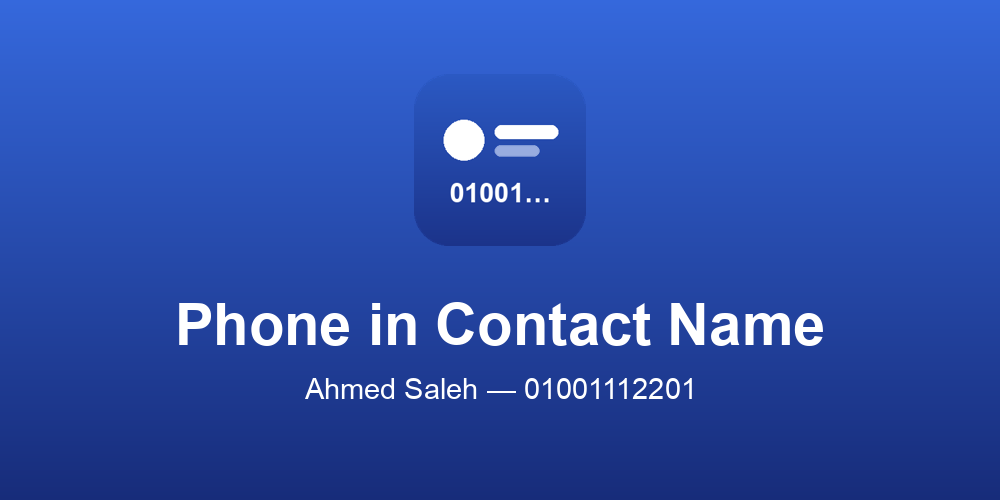
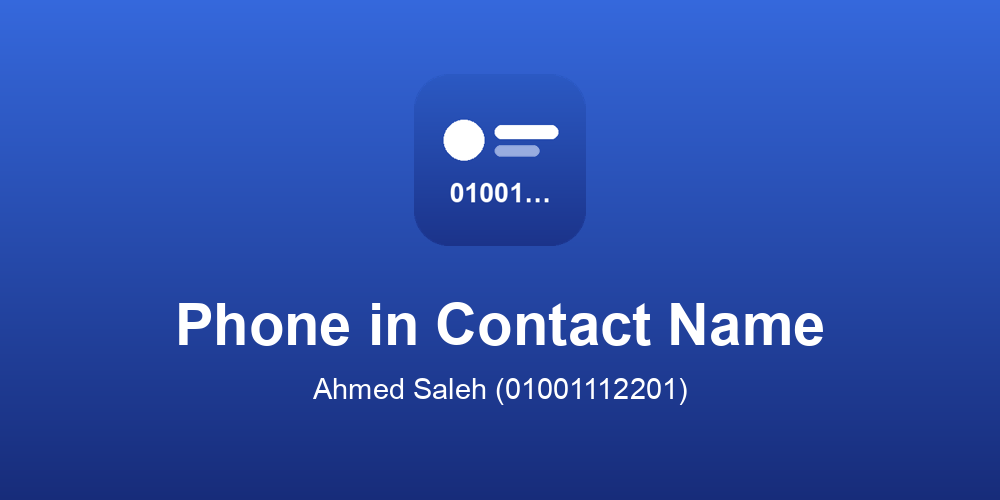
Use plain ASCII in code, HTML entities in descriptions
Em dashes and curly quotes render as mojibake ('Ahmed Saleh a 01001112201')
anywhere the text is read as latin-1 rather than UTF-8, which includes the
display name shown throughout the UI and on printed documents.

Code and manifests now use ASCII; description pages use HTML entities,
which no charset guess can mangle.

The display name also drops the '\t --value--' dropdown markup copied from
core: those literal dashes leak into every context that is not an
autocomplete, so the format is now simply 'Name (01001234567)'.

Changed region(s): [[0.31, 0.75, 0.713, 0.81]]

diff --git a/ai_custom_endpoint/static/description/index.html b/ai_custom_endpoint/static/description/index.html
@@ -5,7 +5,7 @@
         <div class="oe_span12">
             <p class="oe_mt32 text-center" style="font-size:16px;">
                 Odoo's AI module has its LLM endpoints hardcoded, so it can only ever talk to
-                OpenAI or Google. This module reads them from settings instead — which is all it
+                OpenAI or Google. This module reads them from settings instead &mdash; which is all it
                 takes to point the entire AI stack at a gateway you control.
             </p>
         </div>
@@ -17,12 +17,12 @@
         <h2 class="oe_slogan">Point Odoo anywhere</h2>
         <div class="oe_span12">
             <p class="text-center" style="font-size:15px;">
-                LiteLLM &nbsp;·&nbsp; vLLM &nbsp;·&nbsp; OpenRouter &nbsp;·&nbsp; Azure OpenAI
-                &nbsp;·&nbsp; a self-hosted proxy &nbsp;·&nbsp; a private mirror
+                LiteLLM &nbsp;&middot;&nbsp; vLLM &nbsp;&middot;&nbsp; OpenRouter &nbsp;&middot;&nbsp; Azure OpenAI
+                &nbsp;&middot;&nbsp; a self-hosted proxy &nbsp;&middot;&nbsp; a private mirror
             </p>
             <p class="text-center" style="font-size:15px;">
                 Anything that speaks the OpenAI protocol. Set the base URL under
-                <b>Settings → AI → Providers</b> and Odoo's AI agents, prompts and RAG sources
+                <b>Settings &rarr; AI &rarr; Providers</b> and Odoo's AI agents, prompts and RAG sources
                 go to it instead of api.openai.com.
             </p>
         </div>
@@ -36,7 +36,7 @@
         <div class="oe_span6">
             <h3 style="color:#6D28D9;">Your own models in the dropdown</h3>
             <p>
-                Add any models your gateway routes — Claude, Llama, Mistral, a fine-tune — and
+                Add any models your gateway routes &mdash; Claude, Llama, Mistral, a fine-tune &mdash; and
                 they appear in the AI agent's model list alongside Odoo's built-in ones. The
                 list can be fetched from the gateway itself rather than typed by hand.
             </p>
@@ -78,14 +78,14 @@
         <div class="oe_span12">
             <p class="text-center" style="font-size:15px;">
                 Odoo drives chat through the OpenAI <b>Responses</b> API
-                (<code>POST /responses</code>) — <i>not</i> <code>/chat/completions</code> — and
+                (<code>POST /responses</code>) &mdash; <i>not</i> <code>/chat/completions</code> &mdash; and
                 RAG embeddings through <code>POST /embeddings</code>. A gateway must serve those
                 exact routes. Many OpenAI-compatible proxies implement only
                 <code>/chat/completions</code>; those will not work until they add
                 <code>/responses</code>.
             </p>
             <p class="text-center" style="font-size:15px;">
-                Worth checking before you install — it is the one thing that decides whether a
+                Worth checking before you install &mdash; it is the one thing that decides whether a
                 given gateway is usable.
             </p>
         </div>

diff --git a/partner_phone_display_name/static/description/index.html b/partner_phone_display_name/static/description/index.html
@@ -4,13 +4,13 @@
         <h3 class="oe_slogan" style="color:#66708f;">Tell two contacts with the same name apart, without opening either one</h3>
         <div class="oe_span12">
             <p class="oe_mt32 text-center" style="font-size:16px;">
-                Three contacts called “Ahmed” in a dropdown look identical. This module puts the
+                Three contacts called &ldquo;Ahmed&rdquo; in a dropdown look identical. This module puts the
                 phone number next to the name, so the right one is obvious.
             </p>
             <p class="text-center" style="font-size:20px; margin-top:24px;">
                 <span style="color:#999;">Ahmed Saleh</span>
-                &nbsp;&nbsp;→&nbsp;&nbsp;
-                <b>Ahmed Saleh — 01001112201</b>
+                &nbsp;&nbsp;&rarr;&nbsp;&nbsp;
+                <b>Ahmed Saleh (01001112201)</b>
             </p>
         </div>
     </div>
@@ -23,7 +23,7 @@
         <div class="oe_span6">
             <h3 style="color:#2B59C3;">Everywhere a contact is shown</h3>
             <p>
-                Contact selectors, list views, kanban cards, and the “Customer” field on every
+                Contact selectors, list views, kanban cards, and the &ldquo;Customer&rdquo; field on every
                 document. Wherever Odoo prints a contact's name, the number comes with it.
             </p>
         </div>
@@ -32,7 +32,7 @@
             <h3 style="color:#2B59C3;">Styled like Odoo's own</h3>
             <p>
                 In dropdowns the number is rendered the way Odoo renders a contact's email or
-                VAT — as secondary text beside the name, not jammed into it.
+                VAT &mdash; as secondary text beside the name, not jammed into it.
             </p>
         </div>
     </div>
@@ -62,7 +62,7 @@
         <div class="oe_span12">
             <p class="text-center" style="font-size:15px;">
                 This changes <code>display_name</code>, which is what Odoo prints for a contact
-                <b>everywhere</b> — including quotations, invoices, delivery notes and the
+                <b>everywhere</b> &mdash; including quotations, invoices, delivery notes and the
                 recipient name on outgoing email. That is the point of the module, but it does
                 mean customer phone numbers will appear on documents you send out.
             </p>
@@ -79,7 +79,7 @@
         <h2 class="oe_slogan">Works well with</h2>
         <div class="oe_span12">
             <p class="text-center" style="font-size:15px;">
-                <b>Partner Phone (Egypt)</b> — stores every Egyptian mobile in one canonical
+                <b>Partner Phone (Egypt)</b> &mdash; stores every Egyptian mobile in one canonical
                 form, keeps it unique, and finds a contact by number typed any way. Independent
                 of this module; install either or both.
             </p>

diff --git a/partner_phone_eg/static/description/index.html b/partner_phone_eg/static/description/index.html
@@ -1,11 +1,11 @@
 <section class="oe_container">
     <div class="oe_row oe_spaced">
         <h2 class="oe_slogan" style="color:#0F766E;">Partner Phone (Egypt)</h2>
-        <h3 class="oe_slogan" style="color:#5f7d7a;">One canonical number per contact — no duplicates, found however it is typed</h3>
+        <h3 class="oe_slogan" style="color:#5f7d7a;">One canonical number per contact &mdash; no duplicates, found however it is typed</h3>
         <div class="oe_span12">
             <p class="oe_mt32 text-center" style="font-size:16px;">
                 The same customer gets entered twice as <code>+20 100 123 4567</code> and
-                <code>01001234567</code>, and nothing stops it — because to Odoo those are two
+                <code>01001234567</code>, and nothing stops it &mdash; because to Odoo those are two
                 different strings. This module stores every Egyptian mobile in one canonical
                 form and builds duplicate prevention and search on top of it.
             </p>
@@ -37,7 +37,7 @@
             <h3 style="color:#0F766E;">Duplicates are refused</h3>
             <p>
                 Saving a contact whose number an active contact already holds fails with a
-                message naming who has it — not a database error. The guarantee is a partial
+                message naming who has it &mdash; not a database error. The guarantee is a partial
                 unique index in PostgreSQL, so two people saving the same number at the same
                 moment cannot both get through.
             </p>
@@ -58,7 +58,7 @@
             <h3 style="color:#0F766E;">Nothing else is touched</h3>
             <p>
                 Landlines, foreign numbers and blank fields are left exactly as entered and are
-                not covered by the uniqueness rule — only real Egyptian mobiles
+                not covered by the uniqueness rule &mdash; only real Egyptian mobiles
                 (<code>010</code>, <code>011</code>, <code>012</code>, <code>015</code>) are.
                 Archived contacts release their number for reuse.
             </p>
@@ -97,7 +97,7 @@
         <h2 class="oe_slogan">Works well with</h2>
         <div class="oe_span12">
             <p class="text-center" style="font-size:15px;">
-                <b>Phone in Contact Name</b> — shows the number next to the contact's
+                <b>Phone in Contact Name</b> &mdash; shows the number next to the contact's
                 name, so two similarly named contacts are told apart at a glance. Independent;
                 install either or both.
             </p>

diff --git a/ai_custom_endpoint/__manifest__.py b/ai_custom_endpoint/__manifest__.py
@@ -11,7 +11,7 @@ AI Custom Endpoint
 Odoo hardcodes the LLM endpoints (``utils/llm_api_service.py``), so the AI
 module can only ever talk to OpenAI or Google. This module reads them from
 system parameters instead, which is enough to run the whole AI stack against
-any OpenAI-protocol gateway — a self-hosted proxy, LiteLLM, vLLM, OpenRouter,
+any OpenAI-protocol gateway - a self-hosted proxy, LiteLLM, vLLM, OpenRouter,
 Azure OpenAI, or a private mirror.
 
 Configured under **Settings > AI > Providers**, or through the underlying
@@ -21,8 +21,8 @@ system parameters (all optional, nothing changes until one is set):
     Replaces ``https://api.openai.com/v1``.
 
 ``ai.google_base_url``
-    Replaces Gemini's OpenAI-compatible URL. Not shown in Settings — a gateway
-    normally fronts every model through the endpoint above — so it is set from
+    Replaces Gemini's OpenAI-compatible URL. Not shown in Settings - a gateway
+    normally fronts every model through the endpoint above - so it is set from
     System Parameters when Gemini is proxied separately.
 
 ``ai.custom_llm_models``
@@ -30,7 +30,7 @@ system parameters (all optional, nothing changes until one is set):
     dropdown, e.g. ``claude-opus-5:Claude Opus 5, llama-3.3-70b:Llama 3.3``.
     They are routed as OpenAI-protocol requests to ``ai.openai_base_url``.
 
-The API key is Odoo's own ``ai.openai_key`` parameter — set it to the
+The API key is Odoo's own ``ai.openai_key`` parameter - set it to the
 gateway's key.
 
 Note that Odoo drives chat through the OpenAI **Responses** API

diff --git a/partner_phone_display_name/models/res_partner.py b/partner_phone_display_name/models/res_partner.py
@@ -8,16 +8,16 @@ class ResPartner(models.Model):
     def _compute_display_name(self):
         """Append the phone to the contact's name.
 
+        Plain ASCII and the same format everywhere. An en/em dash renders as
+        mojibake anywhere the value is read as latin-1, and core's dropdown
+        markup ("\t --value--") leaks its literal dashes into every other
+        place a contact is shown, so neither is used.
+
         Note this is display_name, so the number also appears wherever the
-        contact is printed — quotations, invoices, email recipients — not
+        contact is printed - quotations, invoices, email recipients - not
         only in contact selectors.
         """
         super()._compute_display_name()
         for partner in self:
-            if not partner.phone:
-                continue
-            if partner.env.context.get('formatted_display_name'):
-                # Matches how core renders extra info in dropdowns.
-                partner.display_name = f"{partner.display_name} \t --{partner.phone}--"
-            else:
-                partner.display_name = f"{partner.display_name} — {partner.phone}"
+            if partner.phone:
+                partner.display_name = f"{partner.display_name} ({partner.phone})"

diff --git a/ai_custom_endpoint/models/ai_agent.py b/ai_custom_endpoint/models/ai_agent.py
@@ -31,7 +31,7 @@ class AiAgent(models.Model):
         """Parse ``ai.custom_llm_models``: ``code:Label, code:Label``.
 
         The label is optional; the code doubles as its own label. Entries are
-        not validated against the gateway — a typo surfaces as an API error on
+        not validated against the gateway - a typo surfaces as an API error on
         first use, which is a clearer signal than a silently missing option.
         """
         raw = self.env['ir.config_parameter'].sudo().get_param(CUSTOM_MODELS_PARAM) or ''
@@ -58,8 +58,8 @@ class AiAgent(models.Model):
         try:
             return super()._get_provider()
         except UserError:
-            # The model list can shrink — a different endpoint, or one that
-            # retired a model — which stock Odoo never has to handle. Its
+            # The model list can shrink - a different endpoint, or one that
+            # retired a model - which stock Odoo never has to handle. Its
             # write() resolves the *old* value before writing the new one
             # (ai/models/ai_agent.py:337), so raising here would make an
             # agent on a dropped model impossible to correct from the UI.

diff --git a/ai_custom_endpoint/models/res_config_settings.py b/ai_custom_endpoint/models/res_config_settings.py
@@ -16,7 +16,7 @@ class ResConfigSettings(models.TransientModel):
     _inherit = 'res.config.settings'
 
     # config_parameter fields read and write ir.config_parameter directly, so
-    # these are the same settings the rest of the module reads — editing them
+    # these are the same settings the rest of the module reads - editing them
     # here and editing System Parameters are interchangeable.
     ai_custom_endpoint_enabled = fields.Boolean(
         string="Use a custom AI endpoint",
@@ -53,7 +53,7 @@ class ResConfigSettings(models.TransientModel):
 
         Deliberately does *not* call ``execute()``. That would save every
         unsaved setting on the whole Settings page, and it installs or
-        uninstalls the modules behind ``module_`` checkboxes — which the ORM
+        uninstalls the modules behind ``module_`` checkboxes - which the ORM
         requires to happen last in the transaction (res_config.py:362). This
         method makes a network call afterwards, and a failing call would roll
         an install back mid-flight. Only the parameters this feature owns are

diff --git a/partner_phone_eg/__manifest__.py b/partner_phone_eg/__manifest__.py
@@ -14,10 +14,10 @@ recognised as the same number.
 
 On top of that single form:
 
-* **Uniqueness** — a second contact cannot be created with a number an active
+* **Uniqueness** - a second contact cannot be created with a number an active
   contact already holds. Enforced by a partial unique index, so concurrent
   saves cannot both slip through.
-* **Search** — typing a number in any format finds the contact, anywhere a
+* **Search** - typing a number in any format finds the contact, anywhere a
   contact is selected.
 
 Contacts without an Egyptian mobile (landlines, foreign numbers) are left

diff --git a/ai_custom_endpoint/llm_base_url.py b/ai_custom_endpoint/llm_base_url.py
@@ -3,7 +3,7 @@
 ``LLMApiService.__init__`` hardcodes the base URL per provider, and every call
 site builds the service directly (``LLMApiService(env, provider=...)`` in
 ai_agent, ai_embedding, ai_fields, ir_actions_server, voip_ai, esg_csrd_ai...),
-so there is no seam to inherit — patching the constructor is the only lever.
+so there is no seam to inherit - patching the constructor is the only lever.
 
 The URL is read from the environment on every instantiation rather than at
 import time, so it stays per-database on a multi-database server.

diff --git a/partner_phone_display_name/__manifest__.py b/partner_phone_display_name/__manifest__.py
@@ -12,7 +12,7 @@ Appends the phone number to a contact's display name, so people picking a
 contact can tell two similarly named records apart by number.
 
 This is ``display_name``, so the number appears wherever a contact is shown
-or printed — selectors, but also quotations, invoices and email recipients.
+or printed - selectors, but also quotations, invoices and email recipients.
 That is intentional; install it only if you want the number everywhere.
 
 Independent of any normalisation module: it shows whatever is stored in the

diff --git a/partner_phone_eg/models/res_partner.py b/partner_phone_eg/models/res_partner.py
@@ -39,7 +39,7 @@ class ResPartner(models.Model):
 
         _rec_names_search alone only does a literal ilike, so searching
         "+20 100 123 4567" finds nothing even though it is the stored
-        01001234567 — the form users are most likely to type, since it is
+        01001234567 - the form users are most likely to type, since it is
         what appears on the contact's own screen.
         """
         domain = super()._search_display_name(operator, value)

diff --git a/partner_phone_eg/models/phone_eg.py b/partner_phone_eg/models/phone_eg.py
@@ -14,7 +14,7 @@ EG_MOBILE_RE = re.compile(r'^01[0125]\d{8}$')
 def normalize_eg_phone(raw):
     """Return the canonical ``01XXXXXXXXX`` form of `raw`, or None.
 
-    None means "not an Egyptian mobile" — a landline, a foreign number or
+    None means "not an Egyptian mobile" - a landline, a foreign number or
     junk. Callers decide whether that is an error or simply a number that
     uniqueness does not apply to.
     """
